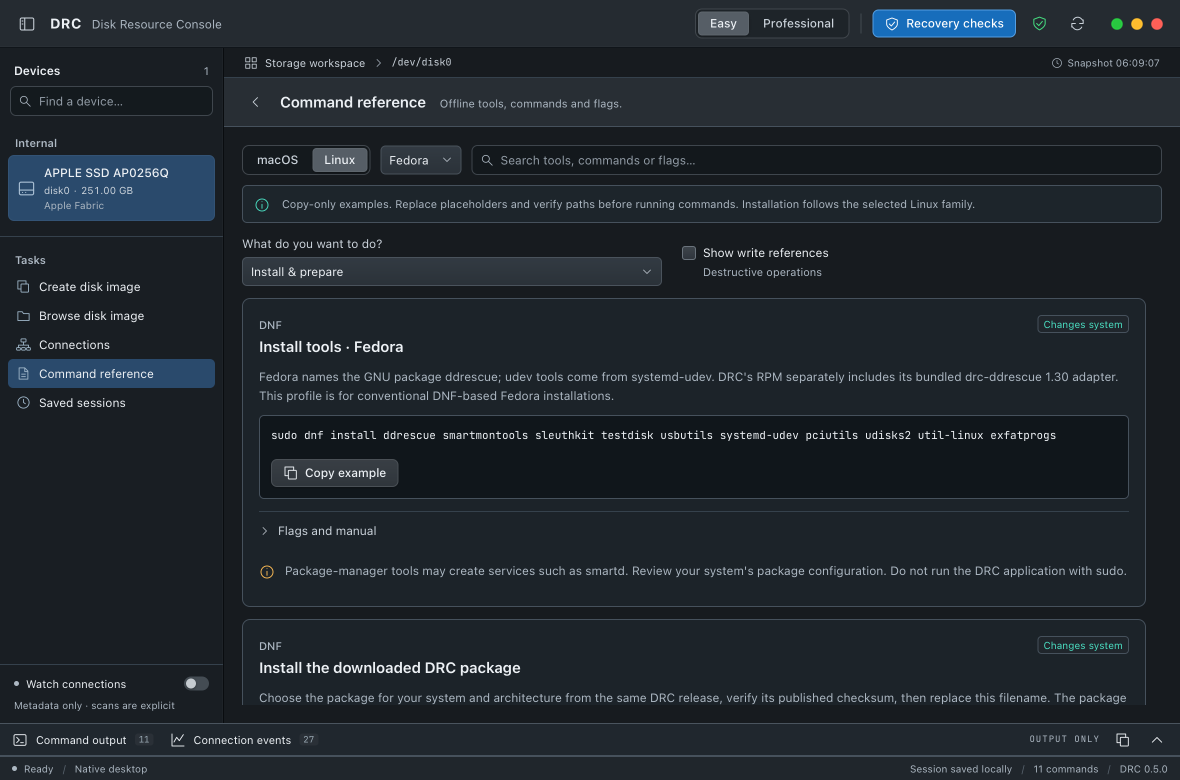
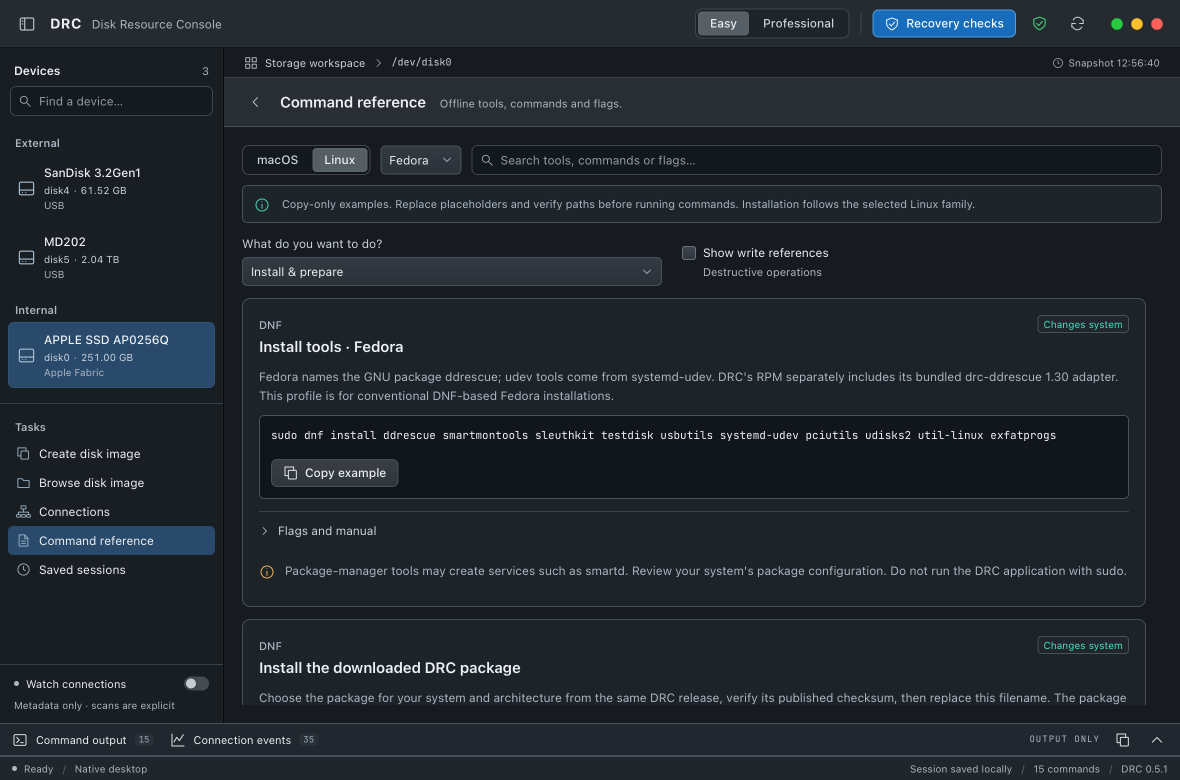
Release v0.5.1

diff --git a/README.md b/README.md
@@ -4,7 +4,7 @@
   <p><strong>Disk Resource Console</strong></p>
   <p>Disk inspection, raw imaging and file recovery.</p>
   <p>
-    <a href="package.json"><img src="https://img.shields.io/static/v1?label=Source&amp;message=v0.5.0&amp;color=blue&amp;style=flat" alt="Source v0.5.0" /></a>
+    <a href="package.json"><img src="https://img.shields.io/static/v1?label=Source&amp;message=v0.5.1&amp;color=blue&amp;style=flat" alt="Source v0.5.1" /></a>
     <a href="#install"><img src="https://img.shields.io/static/v1?label=macOS&amp;message=13%2B&amp;color=000000&amp;style=flat&amp;logo=apple&amp;logoColor=white" alt="macOS 13+" /></a>
     <a href="docs/LINUX-INSTALL.md"><img src="https://img.shields.io/static/v1?label=Linux&amp;message=Debian+%2F+Fedora&amp;color=FCC624&amp;style=flat&amp;logo=linux&amp;logoColor=black" alt="Linux Debian / Fedora" /></a>
     <a href="LICENSE"><img src="https://img.shields.io/static/v1?label=License&amp;message=GPL+v3&amp;color=blue&amp;style=flat" alt="License GPL v3" /></a>
